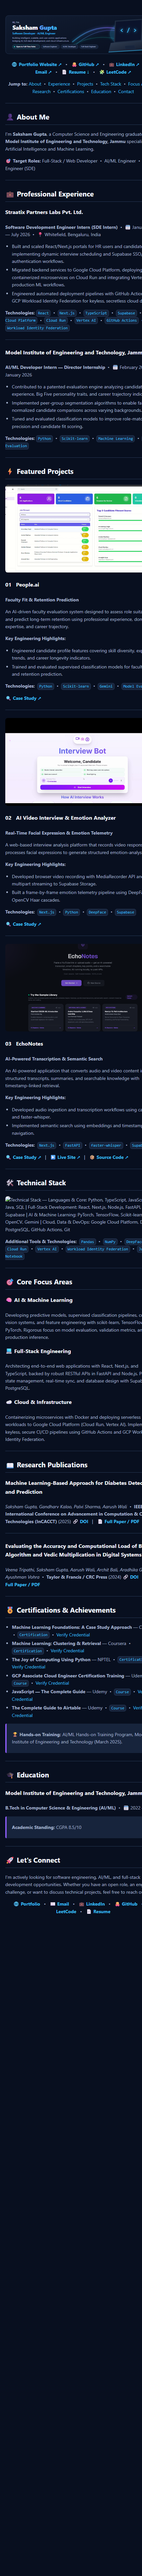
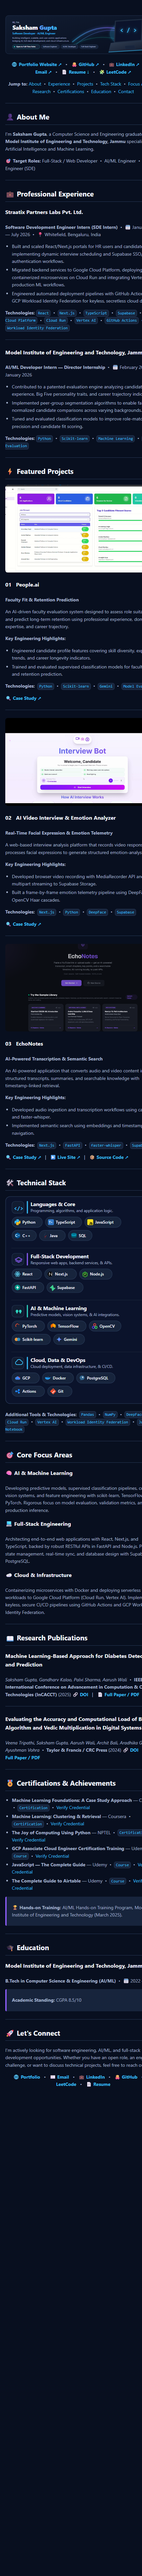
fix(tech-stack): escape XML reserved characters in SVG text elements and add XML validation test

Changed region(s): [[0.0302, 0.4673, 1.0, 0.81], [0.9674, 0.4673, 0.9977, 0.4985]]

diff --git a/scripts/svg_tech_stack.py b/scripts/svg_tech_stack.py
@@ -3,6 +3,7 @@
 from __future__ import annotations
 
 import argparse
+import html
 from pathlib import Path
 
 
@@ -210,15 +211,18 @@ def generate_tech_stack_svg(theme: str = "dark") -> str:
         lines.append(
             f'  <rect x="72" y="{y + 23}" width="3" height="40" rx="1.5" fill="{r["accent"]}"/>'
         )
+        title_esc = html.escape(r["title"])
+        desc_esc = html.escape(r["desc"])
         lines.append(
-            f'  <text x="86" y="{y + 40}" class="txt-title" fill="{text_primary}">{r["title"]}</text>'
+            f'  <text x="86" y="{y + 40}" class="txt-title" fill="{text_primary}">{title_esc}</text>'
         )
         lines.append(
-            f'  <text x="86" y="{y + 57}" class="txt-desc" fill="{text_secondary}">{r["desc"]}</text>'
+            f'  <text x="86" y="{y + 57}" class="txt-desc" fill="{text_secondary}">{desc_esc}</text>'
         )
 
         cur_x = 356
         for tech, badge_w in r["techs"]:
+            tech_esc = html.escape(tech)
             lines.append(f'  <g transform="translate({cur_x}, {y + 28})">')
             lines.append(
                 f'    <rect width="{badge_w}" height="30" rx="15" fill="{bg_pill}" stroke="{border_col}" stroke-width="1"/>'
@@ -227,7 +231,7 @@ def generate_tech_stack_svg(theme: str = "dark") -> str:
                 f'    <g transform="translate(8, 7)">{get_logo_svg(tech)}</g>'
             )
             lines.append(
-                f'    <text x="30" y="19" class="txt-badge" fill="{text_primary}">{tech}</text>'
+                f'    <text x="30" y="19" class="txt-badge" fill="{text_primary}">{tech_esc}</text>'
             )
             lines.append("  </g>")
             cur_x += badge_w + 8
@@ -269,17 +273,20 @@ def generate_tech_stack_mobile_svg(theme: str = "dark") -> str:
         lines.append(
             f'  <rect x="58" y="{y + 13}" width="3" height="34" rx="1.5" fill="{r["accent"]}"/>'
         )
+        title_esc = html.escape(r["title"])
+        desc_esc = html.escape(r["desc"])
         lines.append(
-            f'  <text x="68" y="{y + 27}" class="txt-m-title" fill="{text_primary}">{r["title"]}</text>'
+            f'  <text x="68" y="{y + 27}" class="txt-m-title" fill="{text_primary}">{title_esc}</text>'
         )
         lines.append(
-            f'  <text x="68" y="{y + 43}" class="txt-m-desc" fill="{text_secondary}">{r["desc"]}</text>'
+            f'  <text x="68" y="{y + 43}" class="txt-m-desc" fill="{text_secondary}">{desc_esc}</text>'
         )
 
         for row_idx, badge_row in enumerate(r["m_rows"]):
             bx = 18
             by = y + 56 + (row_idx * 36)
             for tech, bw in badge_row:
+                tech_esc = html.escape(tech)
                 lines.append(f'  <g transform="translate({bx}, {by})">')
                 lines.append(
                     f'    <rect width="{bw}" height="28" rx="14" fill="{bg_pill}" stroke="{border_col}" stroke-width="1"/>'
@@ -288,7 +295,7 @@ def generate_tech_stack_mobile_svg(theme: str = "dark") -> str:
                     f'    <g transform="translate(7, 6)">{get_logo_svg(tech)}</g>'
                 )
                 lines.append(
-                    f'    <text x="28" y="18" class="txt-m-badge" fill="{text_primary}">{tech}</text>'
+                    f'    <text x="28" y="18" class="txt-m-badge" fill="{text_primary}">{tech_esc}</text>'
                 )
                 lines.append("  </g>")
                 bx += bw + 8

diff --git a/tests/test_quality.py b/tests/test_quality.py
@@ -183,3 +183,21 @@ def test_link_extractor_utils() -> None:
     assert "https://docs.example.com" in md_urls
     assert "https://images.example.com/pic.png" in md_urls
     assert "assets/pic.png" not in md_urls
+
+
+def test_all_svg_assets_are_well_formed_xml() -> None:
+    """Ensure all generated SVG assets in assets/ are strictly valid XML."""
+    import xml.etree.ElementTree as ET
+
+    assets_dir = Path("assets")
+    svg_files = list(assets_dir.glob("*.svg"))
+    assert len(svg_files) >= 6, "Expected at least 6 SVG files in assets/"
+
+    for svg_file in svg_files:
+        content = svg_file.read_text(encoding="utf-8")
+        try:
+            tree = ET.fromstring(content)
+            assert tree.tag.endswith("svg"), f"Root tag of {svg_file.name} is not <svg>"
+        except ET.ParseError as e:
+            raise AssertionError(f"SVG asset {svg_file.name} contains invalid XML: {e}") from e
+
